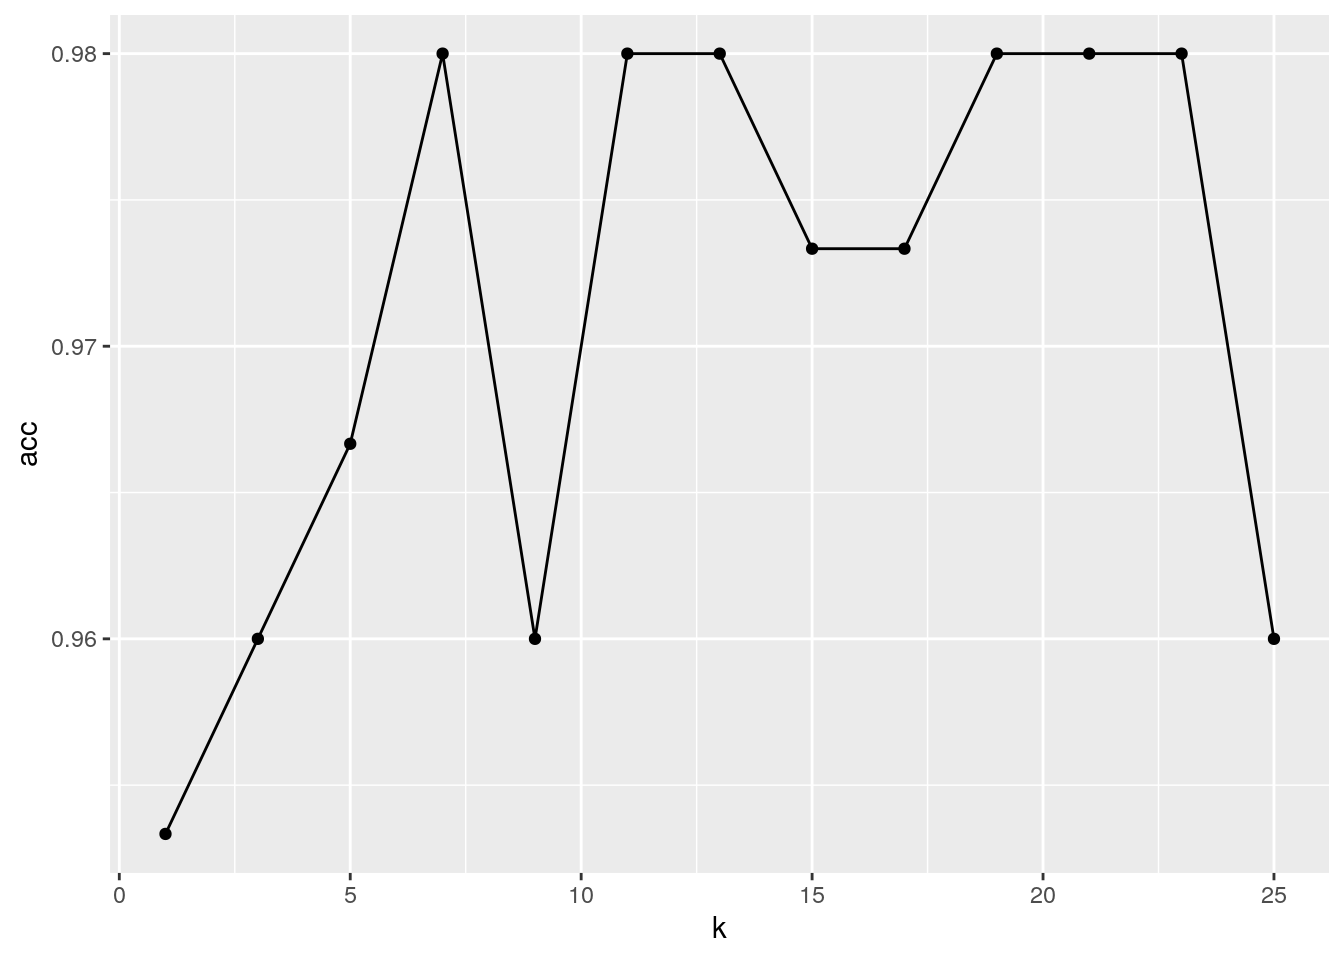
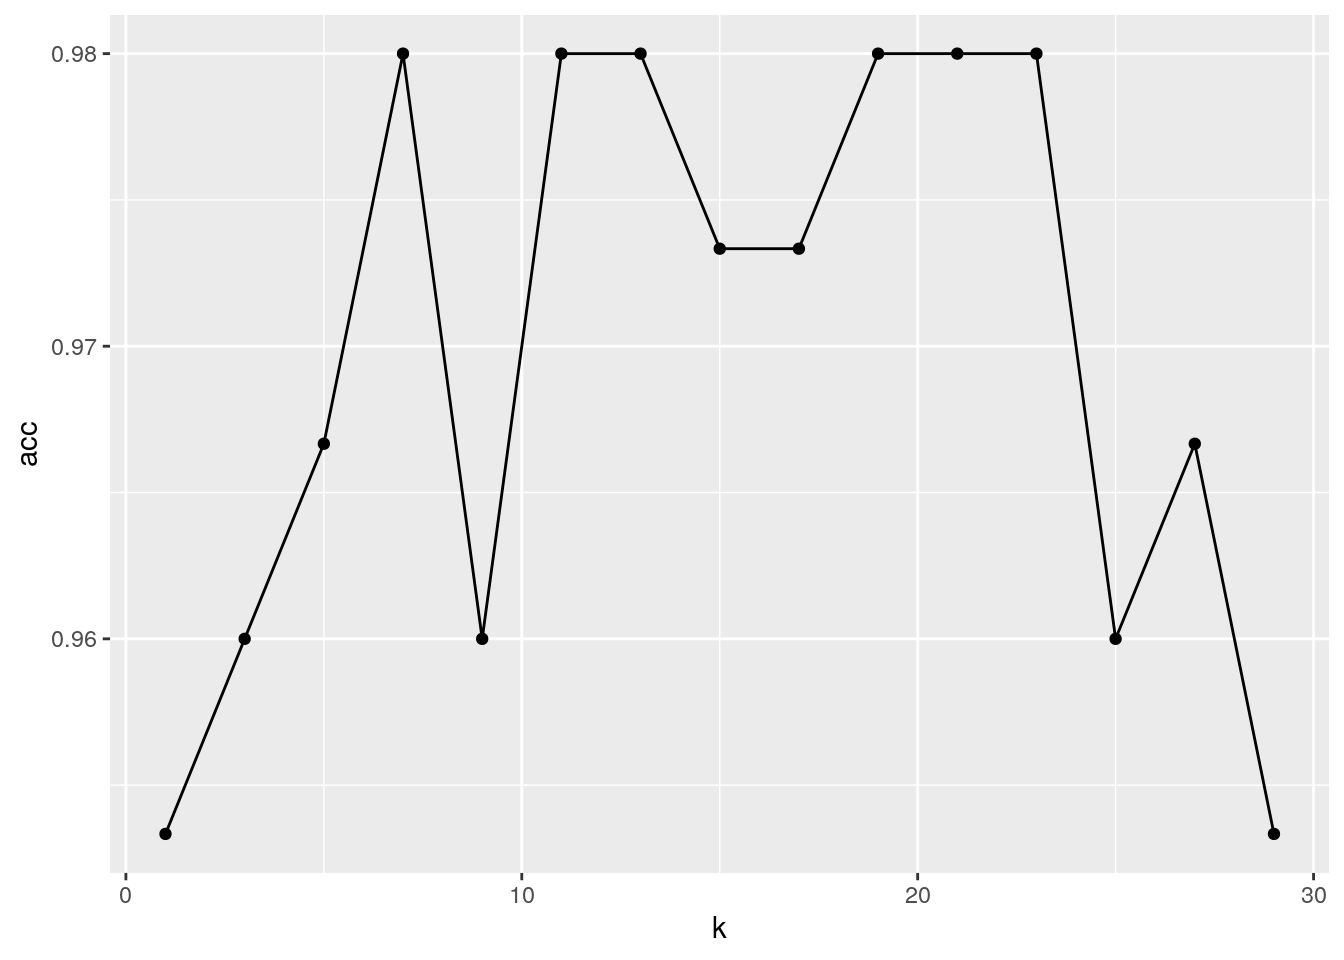
fix typo

diff --git a/docs/sec-sl.html b/docs/sec-sl.html
@@ -121,6 +121,7 @@ code > span.in { color: #60a0b0; font-weight: bold; font-style: italic; } /* Inf
 <li class="toc"><a href="#k-nearest-neighbours-classifier"> K-nearest neighbours classifier</a></li>
 <li class="toc"><a href="#model-selection-1"> Model selection</a></li>
 <li class="toc"><a href="#k-fold-cross-validation"> k-fold cross-validation</a></li>
+<li class="toc"><a href="#variance-and-biais-tradeoff"> Variance and biais tradeoff</a></li>
 </ul>
 <a href="sec-biovis.html"><span class="toc-section-number">11</span> Visualising biomolecular data</a>
 <a href="sec-ccl.html"><span class="toc-section-number">12</span> Conclusions</a>
@@ -324,8 +325,6 @@ p1 &lt;-<span class="st"> </span>factoextra<span class="op">::</span><span class
 p2 &lt;-<span class="st"> </span>factoextra<span class="op">::</span><span class="kw">fviz_pca_ind</span>(pca_knn, <span class="dt">col.ind =</span> giris2_res<span class="op">$</span>GRADE)
 <span class="kw">library</span>(<span class="st">"patchwork"</span>)
 p1 <span class="op">/</span><span class="st"> </span>p2</code></pre></div>
-<pre><code>## Warning: Removed 100 rows containing missing values (geom_point).</code></pre>
-<pre><code>## Warning: Removed 1 rows containing missing values (geom_point).</code></pre>
 <div class="figure">
 <span id="fig:unnamed-chunk-80"></span>
 <p class="caption marginnote shownote">
@@ -490,7 +489,7 @@ giris2_test &lt;-<span class="st"> </span>giris2_labelled[<span class="op">-</sp
 ► Question
 </p>
 <div class="question-body">
-<p>Run two kNN classifications, one with k = 1, then one with k = 11 and compare each to the true results. Interprete these results.</p>
+<p>Run two kNN classifications, one with k = 1, then one with k = 11 and compare each to the true results. A good way to assess the results is to generate a contingency matrix (using the <code>table</code> function) that tallies matches and mis-matches betweem the predictions and expected assignments. Interprete these results.</p>
 <p class="question-end">
 <span class="fa fa-square-o solution-icon"></span>
 </p>
@@ -560,9 +559,9 @@ test_<span class="dv">11</span> &lt;-<span class="st"> </span><span class="kw">k
 <div class="figure" style="text-align: center">
 <span id="fig:unnamed-chunk-87"></span>
 <p class="caption marginnote shownote">
-Figure 10.5: The data is split into 3 folds. At each training/testing iteration, a different fold is used as test partition (orange) and the two other ones (white) are used to train the model.
+Figure 10.5: The data is split into 3 folds. At each training/testing iteration, a different fold is used as test partition (white) and the two other ones (blue) are used to train the model.
 </p>
-<img src="figs/xval.png" alt="The data is split into 3 folds. At each training/testing iteration, a different fold is used as test partition (orange) and the two other ones (white) are used to train the model." width="100%">
+<img src="figs/xval.png" alt="The data is split into 3 folds. At each training/testing iteration, a different fold is used as test partition (white) and the two other ones (blue) are used to train the model." width="100%">
 </div>
 <p>After cross-validation, all models used within each fold are discarded, and a new model is built using the whole labelled dataset, with the best model parameter(s), i.e those that generalised over all folds. This makes cross-validation quite time consuming, as it takes x+1 (where x in the number of cross-validation folds) times as long as fitting a single model, but is essential.</p>
 <div class="question">
@@ -663,7 +662,7 @@ accs</code></pre></div>
 ► Question
 </p>
 <div class="question-body">
-<p>Repeat the above for k=1, 3, 5, … to 25 and plot the average accuracy as a function of k.</p>
+<p>Repeat the above for k=1, 3, 5, … to 30 and plot the average accuracy as a function of k.</p>
 <p class="question-end">
 <span class="fa fa-square-o solution-icon"></span>
 </p>
@@ -674,12 +673,12 @@ accs</code></pre></div>
 ► Solution<span id="sol-start-77" class="fa fa-plus-square solution-icon clickable" onclick="toggle_visibility('sol-body-77', 'sol-start-77')"></span>
 </p>
 <div id="sol-body-77" class="solution-body" style="display: none;">
-<div class="sourceCode"><pre class="sourceCode r"><code class="sourceCode r">accs &lt;-<span class="st"> </span><span class="kw">tibble</span>(<span class="dt">k =</span> <span class="kw">seq</span>(<span class="dv">1</span>, <span class="dv">25</span>, <span class="dv">2</span>)) <span class="op">%&gt;%</span>
+<div class="sourceCode"><pre class="sourceCode r"><code class="sourceCode r">accs &lt;-<span class="st"> </span><span class="kw">tibble</span>(<span class="dt">k =</span> <span class="kw">seq</span>(<span class="dv">1</span>, <span class="dv">30</span>, <span class="dv">2</span>)) <span class="op">%&gt;%</span>
 <span class="st">    </span><span class="kw">rowwise</span>() <span class="op">%&gt;%</span>
 <span class="st">    </span><span class="kw">mutate</span>(<span class="dt">acc =</span> <span class="kw">mean</span>(<span class="kw">sapply</span>(folds, knn_accuracy, k))) <span class="op">%&gt;%</span>
 <span class="st">    </span><span class="kw">ungroup</span>()
 accs</code></pre></div>
-<pre><code>## # A tibble: 13 x 2
+<pre><code>## # A tibble: 15 x 2
 ##        k   acc
 ##    &lt;dbl&gt; &lt;dbl&gt;
 ##  1     1 0.953
@@ -694,7 +693,9 @@ accs</code></pre></div>
 ## 10    19 0.98 
 ## 11    21 0.98 
 ## 12    23 0.98 
-## 13    25 0.96</code></pre>
+## 13    25 0.96 
+## 14    27 0.967
+## 15    29 0.953</code></pre>
 <div class="sourceCode"><pre class="sourceCode r"><code class="sourceCode r">accs <span class="op">%&gt;%</span>
 <span class="st">    </span><span class="kw">ggplot</span>(<span class="kw">aes</span>(<span class="dt">x =</span> k, <span class="dt">y =</span> acc)) <span class="op">+</span>
 <span class="st">    </span><span class="kw">geom_point</span>() <span class="op">+</span><span class="st"> </span>
@@ -711,6 +712,15 @@ Figure 10.6: Average classification accuracy as a function of the parameter k.
 </p>
 </div>
 </div>
+<p>As we can see from the last exercise, most values of k give a good classification accuracy, ranging from 96% to 98%, and it would be difficult to identify a single best value for k. Indeed, the three groups we are typing to assign new data to are relatively well separated and the little uncertainty that we observe is most likely due to some instances that lie at the boudary between classes B and C.</p>
+<p>There exist a variety of packages that automate model and parameter selection using cross-validation procedures as illustrated above, so that in practice, these tasks can be automated. This becomes particularly useful when more than one model parameter (called hyper-parameters) need to tuned, different classifiers need to be assessed, and/or several model performance metrics are to be computed.</p>
+</div>
+<div id="variance-and-biais-tradeoff" class="section level2">
+<h2>
+<span class="header-section-number">10.5</span> Variance and biais tradeoff</h2>
+<p>A recurrent goal in machine learning is to find a trade-off between variance and biais when fitting models. It is important to build a good model using the data at hand, i.e. that learns from the data, but not too much. If the model is too specific for the data that was used to build it (the model would be said to be <strong>overfitting the data</strong>) and would not be applicable to new data (the model would have high bias). On the other hand, a model that is too general, that wouldn’t be applicable enough to the data, or type of data at hand[^varex], it would perform poorly, and hence lead to high variance.</p>
+<p>This variance and biais tradeoff can be illustrated in different ways. Figure below shows the prediction error as a function of the model complexity. In our example above, we have used accuracy, a metric that we want to optimise, while in the prediction error is a measure to me minimised. The model complexity represent the ability of the model (or model parameter) to learn/adapt to the training data. In our case, the complexity would be illustrated by <span class="math inline">\(\frac{1}{k}\)</span>: when k=1,</p>
+<p>the model becomes very complex as it adapts to every single neighbour. The other extreme, when k becomes large, the classification will tend to using an average of so many neighbours that doesn’t reflect any specificity of our data.</p>
 
 </div>
 </div></body></html>

diff --git a/docs/sec-vis.html b/docs/sec-vis.html
@@ -720,7 +720,7 @@ p1 &lt;-<span class="st">  </span><span class="kw">ggplot</span>(sim, <span clas
 p2 &lt;-<span class="st">  </span><span class="kw">ggplot</span>(sim, <span class="kw">aes</span>(<span class="kw">log</span>(x))) <span class="op">+</span>
 <span class="st">    </span><span class="kw">geom_histogram</span>(<span class="dt">bins =</span> <span class="dv">30</span>)
 p1 <span class="op">+</span><span class="st"> </span>p2</code></pre></div>
-<pre><code>## Warning: Removed 8050 rows containing non-finite values (stat_bin).</code></pre>
+<pre><code>## Warning: Removed 8129 rows containing non-finite values (stat_bin).</code></pre>
 <div class="figure">
 <span id="fig:sim"></span>
 <p class="caption marginnote shownote">

diff --git a/docs/sec-biostrings.html b/docs/sec-biostrings.html
@@ -659,7 +659,7 @@ chr2L_dna</code></pre></div>
 ► Question
 </p>
 <div class="question-body">
-<p>Using <code>letterFrequency</code>, calculate the number and frequency of A, G, C and T nucleotides in chromosome 14.</p>
+<p>Using <code>letterFrequency</code>, calculate the number and frequency of A, G, C and T nucleotides in chromosome 2L.</p>
 <p class="question-end">
 <span class="fa fa-square-o solution-icon"></span>
 </p>
